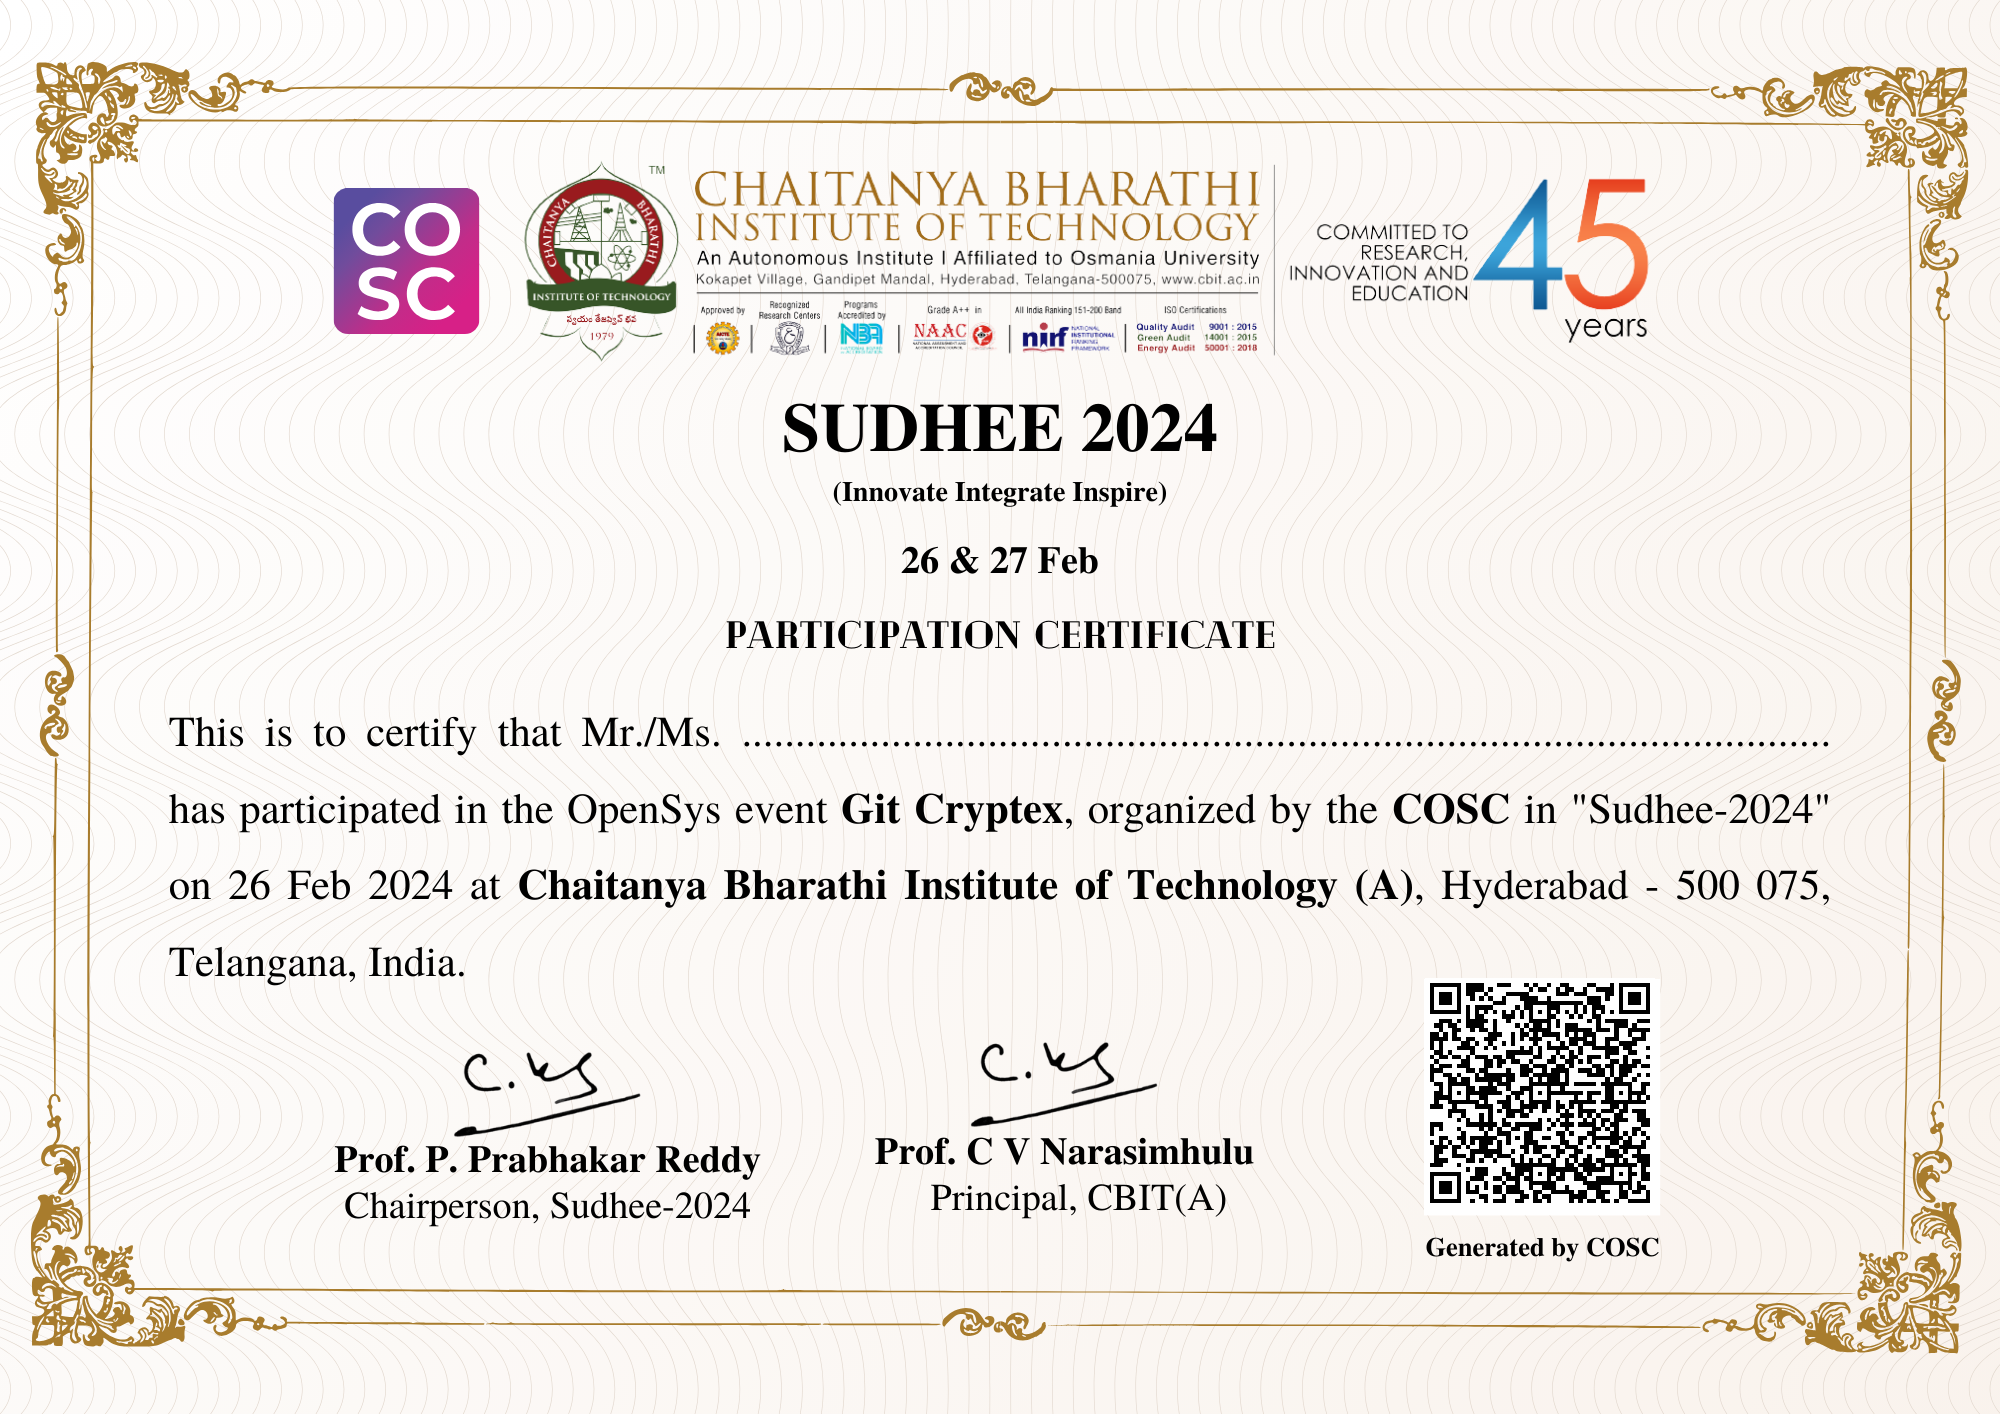
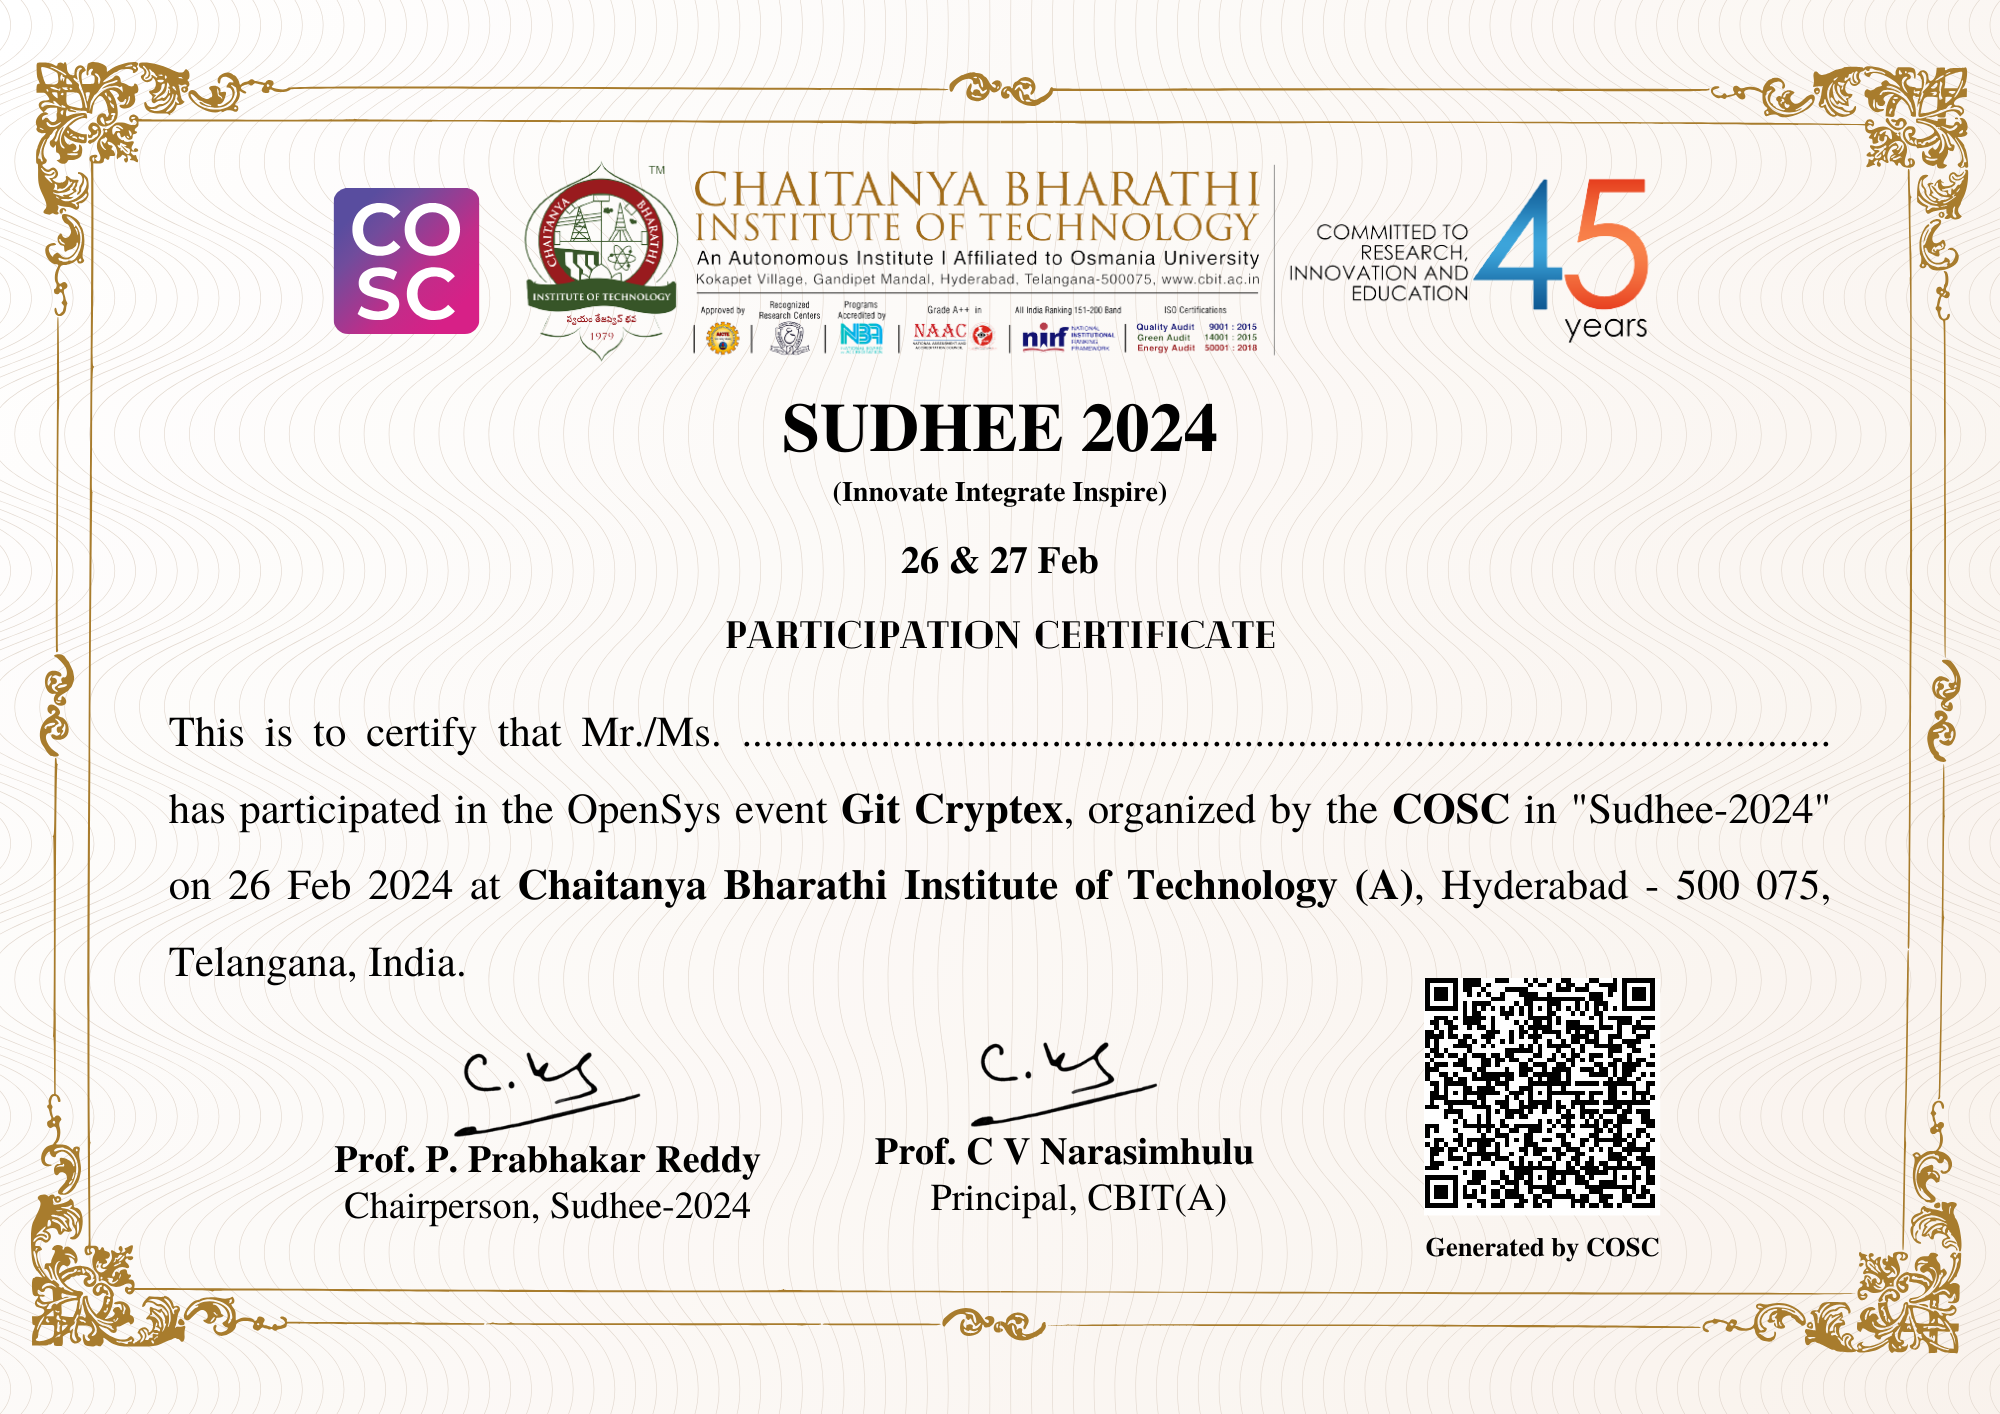
change border value

Changed region(s): [[0.713, 0.6846, 0.837, 0.8713]]

diff --git a/qr-gen.py b/qr-gen.py
@@ -10,7 +10,7 @@ def generate_qr_code(data, qr_filename):
         version=8,
         error_correction=qrcode.constants.ERROR_CORRECT_H,
         box_size=10,
-        border=1,
+        border=0,
     )
     qr.add_data(data)
     qr.make(fit=True)
